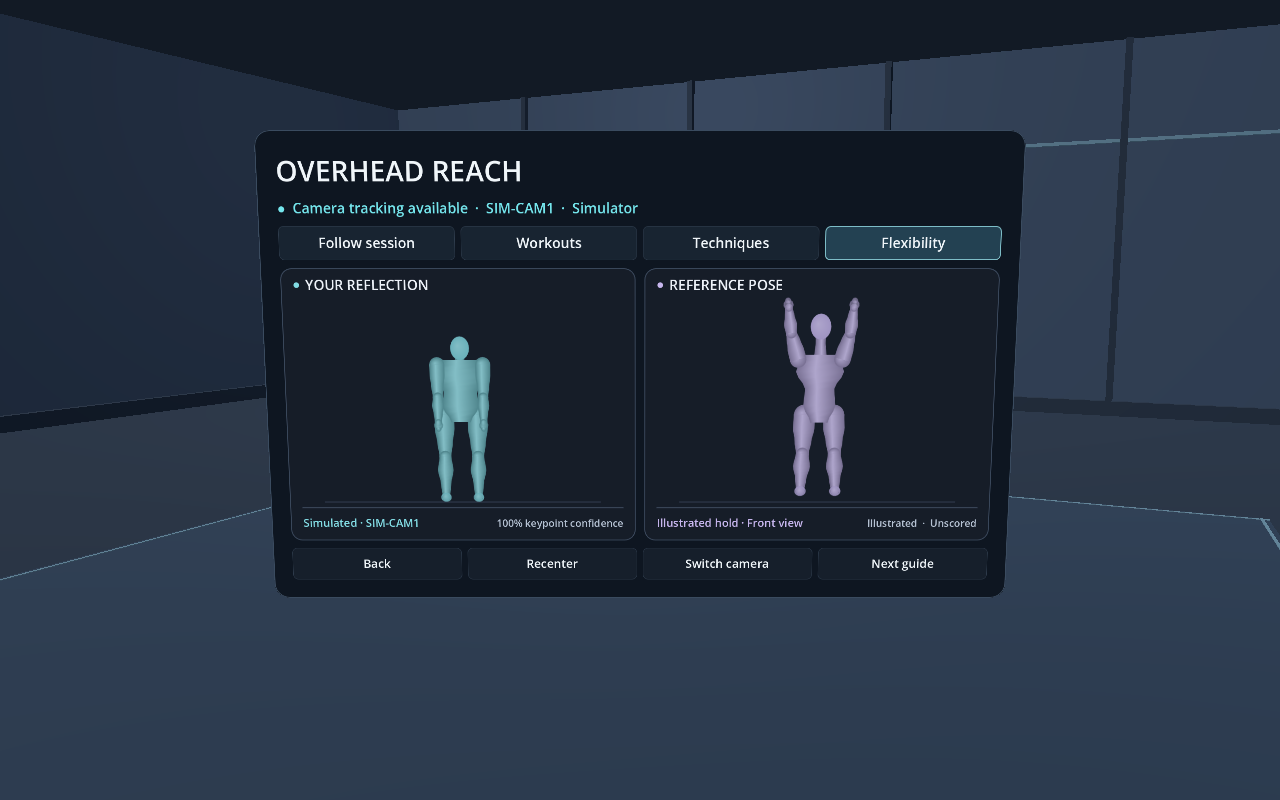
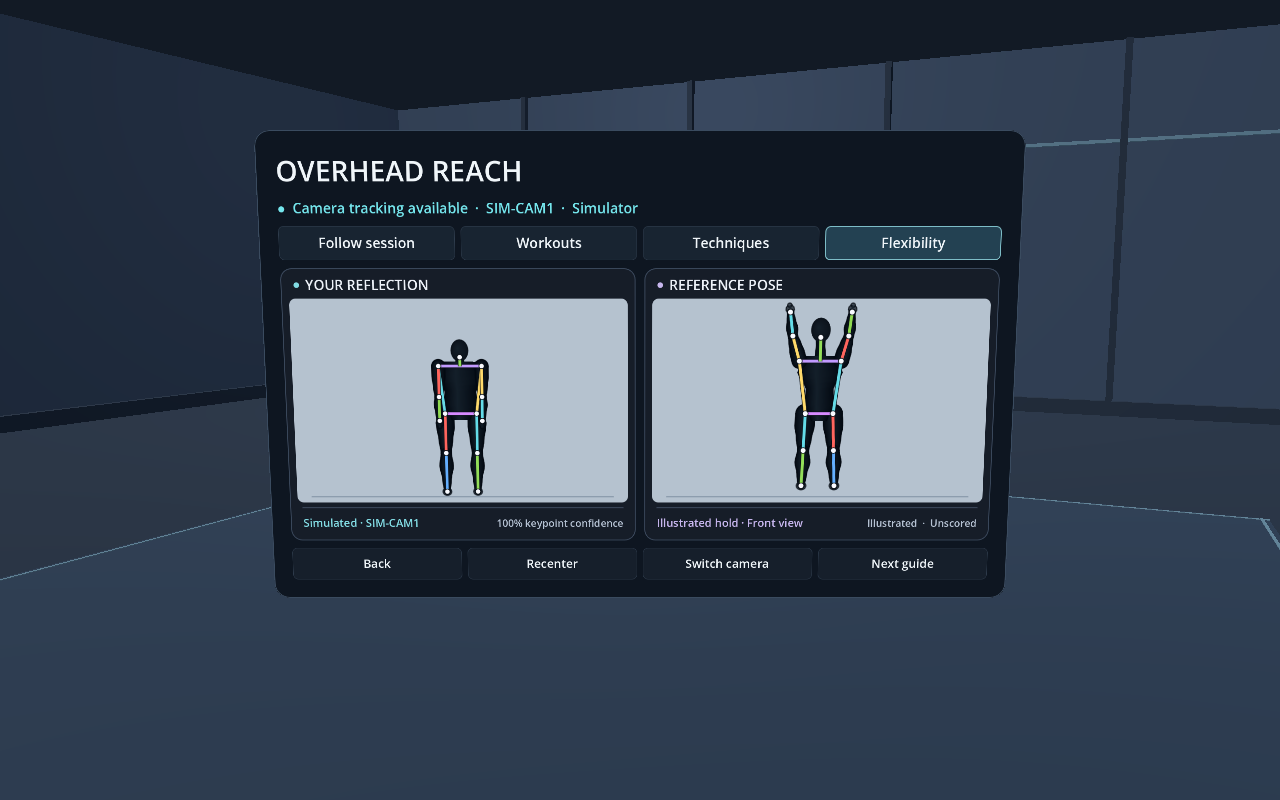
Show colored skeletons over silhouette pose guides

Changed region(s): [[0.2188, 0.375, 0.7812, 0.6562]]

diff --git a/apps/vr/README.md b/apps/vr/README.md
@@ -69,8 +69,8 @@ cameras see you, at the headset's floor height. The alignment is saved in
 ### Pose mirror
 
 Open **Pose mirror** from setup or the Taekwondo clinic. In desktop preview, press **M**.
-The cyan figure reflects the selected camera's 2D landmarks horizontally. The purple figure
-shows an illustrated reference. Use **Switch camera** to pick the view that best matches the
+The reflection card mirrors the selected camera's 2D landmarks horizontally. The reference
+card shows an illustrated pose. Use **Switch camera** to pick the view that best matches the
 guide. Low-confidence points are omitted and the reflection clears when camera frames stop.
 
 **Follow session** shows the current item in Full Body in 20 or the current phase and side
@@ -82,9 +82,9 @@ On physical cameras configured for body detection, the engine uses YOLOX to loca
 and RTMPose to estimate the landmarks. The mirror works with one camera and draws an
 approximate silhouette around its detected joints. The guide is an unscored 2D example.
 Camera viewpoint and occlusion affect what the reflection can show.
-The cyan and violet avatars share the same planar anatomy renderer. Framing uses a slowly
-updated torso scale and preserves partially observed poses. The confidence label summarizes
-the available keypoints. [Redesign screenshot and matching camera settings](../../docs/validation/2026-11-19-vr-coaching-visuals.md)
+Both avatars use dark silhouettes with colored bones and white keypoint markers. Missing
+landmarks leave gaps in the skeleton. Framing uses a slowly updated torso scale, and the
+confidence label summarizes the available keypoints. [Redesign screenshot and matching camera settings](../../docs/validation/2026-11-19-vr-coaching-visuals.md)
 
 ### Taekwondo clinic
 

diff --git a/docs/validation/2026-11-19-vr-coaching-visuals.md b/docs/validation/2026-11-19-vr-coaching-visuals.md
@@ -2,7 +2,7 @@
 
 ![Bansayo's Overhead reach pose mirror. The SIM-CAM1 reflection and the illustrated reference appear side by side.](screenshots/vr-overhead-reach.png)
 
-This 1280 × 800 PNG comes directly from the root viewport of the running Godot 4.5.1 desktop preview on macOS. The room received standing landmarks from the Rust simulator in `config/sim-training.yaml`. The mirror was set to **Flexibility → Overhead reach**, with `SIM-CAM1` selected. The image uses the project's Compatibility renderer.
+This 1280 × 800 PNG comes directly from the root viewport of the running Godot 4.5.1 desktop preview on macOS. The room received standing landmarks from the Rust simulator in `config/sim-training.yaml`. The mirror was set to **Flexibility → Overhead reach**, with `SIM-CAM1` selected. Both figures use the silhouette and skeleton overlay. The image uses the project's Compatibility renderer.
 
 ## Camera match
 
